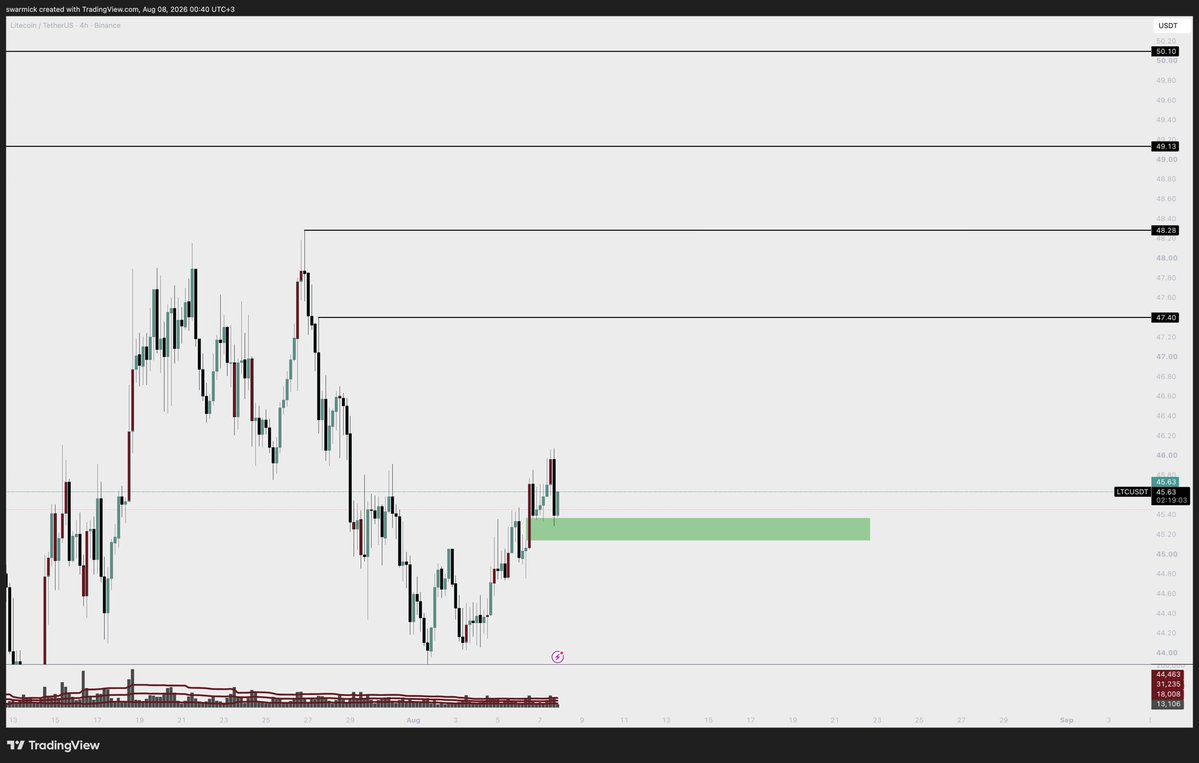
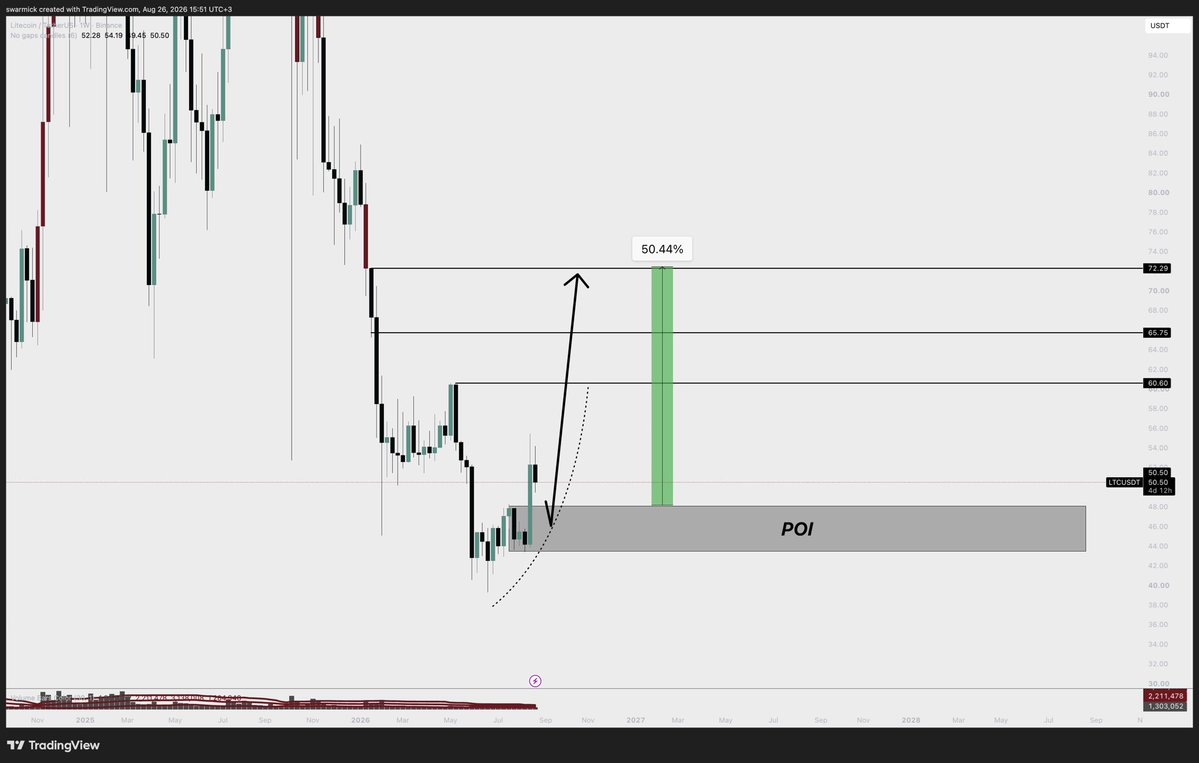
chore(x-trader-monitor): auto-commit 2026-08-26

diff --git a/memory/topics/ticker-focus.md b/memory/topics/ticker-focus.md
@@ -89,7 +89,7 @@
 - **$STRC (Strategy Inc)**: Wild_Randomness — **TECHNICAL PRICE-ACTION COMMENTARY** (2026-08-14T18:39:19Z). X post: "$STRC rebounding but slowing down? $80 buyers not sticking around for the last $5?" + 2 chart images (daily: V-shaped crash 100→72, recovery bounce to 96, now consolidating/weakening at 94.87 with volume profile analysis; weekly: multiple consolidation zones, small price moves on varying volume). Observation questioning momentum exhaustion on recovery bounce; skeptical on whether weak-handed buyers at $80 (recovery entry) will hold through next $5 resistance move. Classified as INFORMATIONAL (technical/price-action commentary, no personal trade execution; no "I bought/shorted/closed" language; observational analysis of price dynamics). First-mention new ticker across all tracked traders (Aug 14 18:39Z); single-trader technical observation on token/stock structure. Not on Kyle's explicit watch list; no cross-trader momentum yet. Classification: QUIET TICKER (single-mention, informational observation, no personal position). Tracked silently per Step 6 protocol. Watch for: (a) second trader mention of $STRC or similar recovery-fade thesis within short window (would escalate cross-trader momentum), or (b) Wild_Randomness follow-up execution/conviction signal (would escalate to trade-signal status). Updated 2026-08-14 18:39:19 UTC (first mention, technical observation).
 
 - **$LLY** (Eli Lilly): **Wild_Randomness (Aug 19 13:41:55Z)** — victory lap on past +$100 profit trade over 2-day window. 1D daily chart shows LLY at $1,270.50 (+3.65% intraday), bullish structure recovery from prior consolidation. Charts show strong uptrend structure recovery. Single-trader mention; past victory lap (no current execution signal). Classification: INFORMATIONAL (past trade outcome commentary). Quiet ticker single-mention tracking initiated pending cross-trader convergence or future mention. Kyle watch list: not explicitly included (focus: $HYPE/$NVDA/$Gold). Updated 2026-08-19T13:41:55Z (first mention).
-- **$LTC** (Litecoin): **swarmister — TRADE-NEW-ENTRY (2026-08-07T21:42:32Z)**. X post with TradingView LTC/USDT daily chart: "Opened a small long position $LTC with a tight stop-loss. The asset is showing relative strength compared to other instruments. Following a sell-side liquidity sweep, a reversal is expected to form, and the upward trend driven by institutional order flow is expected to continue." Chart shows: (a) clear sell-side liquidity sweep to ~43.50 low (capitulation zone), (b) reversal formation at ~45.63 current level, (c) resistance structure at 47.40/48.28/49.13 zones, (d) support consolidation at 43.50 (sweep low). Entry context: market-order long filled at ~$45.63 with tight stop-loss (implied ~43.50 or lower). Technical thesis: institutional order-flow continuation expected post-reversal. Classification: **TRADE-NEW-ENTRY (Step 5a)** — personal execution language ("Opened") confirms market-order filled position awaiting Kyle approval to mirror on Kraken spot. First-mention new ticker across all tracked traders (Aug 07 21:42Z, swarmister only). LTC previously unmentioned in tracked window. Chart-driven technical entry with disciplined risk management (tight SL). Single-trader mention; tracked for cross-trader convergence momentum (watch if second trader mentions LTC technical structure or relative-strength thesis within short window). Awaiting Kyle approval decision. Updated 2026-08-07T21:42:32 UTC (trade-new-entry, chart-validated reversal setup).
+- **$LTC** (Litecoin): **ESCALATED — 2-MENTION SINGLE-TRADER BULLISH CONVICTION**. **swarmister — TRADE-NEW-ENTRY (2026-08-07T21:42:32Z)**: X post with TradingView LTC/USDT daily chart: "Opened a small long position $LTC with a tight stop-loss. The asset is showing relative strength compared to other instruments. Following a sell-side liquidity sweep, a reversal is expected to form, and the upward trend driven by institutional order flow is expected to continue." Chart shows: (a) clear sell-side liquidity sweep to ~43.50 low (capitulation zone), (b) reversal formation at ~45.63 current level, (c) resistance structure at 47.40/48.28/49.13 zones, (d) support consolidation at 43.50 (sweep low). Entry context: market-order long filled at ~$45.63 with tight stop-loss (implied ~43.50 or lower). Technical thesis: institutional order-flow continuation expected post-reversal. Classification: **TRADE-NEW-ENTRY (Step 5a)** — personal execution language ("Opened") confirms market-order filled position awaiting Kyle approval to mirror on Kraken spot. **ESCALATION (2026-08-26T12:52:19Z)**: swarmister **SECOND MENTION** — enhanced technical conviction update with 1W (weekly) timeframe chart analysis demonstrating classic "W" (double-bottom) reversal pattern with Point of Interest (POI) support zone at ~$45.65 (consistent with prior Aug 07 reversal thesis). Upside potential ~50% targeting $72.22 level. Order Flow structure analysis confirms "upward Order Flow will continue to develop" from POI support zone. Technical depth escalation: daily entry (Aug 07, ~$45.63) → weekly structure confirmation (Aug 26, same POI zone $45.65) validates medium-term bullish thesis across dual timeframes. No new personal execution language (informational technical confirmation, not new trade action). Conviction escalation: trader reinforcing bullish thesis via multi-timeframe technical chart sharing. **Classification: INFORMATIONAL-BULLISH-ESCALATION (two-mention single-trader momentum on same bullish thesis)**. **Group lean: SINGLE-TRADER BULLISH** (swarmister long conviction, awaiting Kyle approval decision on original Aug 07 entry). Not on Kyle's explicit watch list ($HYPE/$NVDA/$Gold); tracked as quiet ticker with emerging single-trader conviction escalation. Informational alert sent to Kyle with weekly chart technical analysis. Watch for: (a) second independent trader mention of LTC technical structure (would escalate to cross-trader convergence status), or (b) Kyle approval decision on Aug 07 entry (would confirm positioned long). Updated 2026-08-26T12:52:19Z (second mention, weekly structure confirmation, technical conviction escalation).
 - **$NQ / NQ1** (NASDAQ 100 E-mini futures): Wild_Randomness — technical market structure observation (2026-08-03T23:50:42Z). X post with daily chart: NQ resistance 30,553.75 breakdown into consolidation support 28,938; cryptic sentiment "Might work out for everyone this time around, certainly at least for a few more days…but did not work out the last time" = cautious relief outlook with historical skepticism. Chart-driven technical observation on index-level volatility/consolidation pattern consistent with macro bear framework ("Jump the Shark" thesis). No personal trade execution language (informational market structure commentary). First-mention new ticker across tracked traders (Aug 03 23:50Z); single-trader index-level observation; not on Kyle's explicit watch list; not cross-trader convergence yet. Classification: QUIET TICKER (single-mention, informational technical observation, no personal position). Tracked silently per Step 6 protocol. Watch for: (a) second trader mention of NQ/NDX/tech-index technical structure within short window (would escalate cross-trader momentum), or (b) Wild_Randomness follow-up execution signal (would escalate to trade-signal status). Updated 2026-08-03 23:50:42 UTC.
 
 - **$AST (AST SpaceMobile)**: **HeartCanHodl — EMERGING CATALYST SENTIMENT** (2026-08-04T08:48Z). HCH expresses conviction on "timing on both" (SPCX + AST); LinkedIn context shows AST/Meta partnership on WhatsApp satellite connectivity integration (D2D + voice/video/messaging + AI experiences over satellite). Framed as emerging tech narrative: satellite communications convergence with terrestrial mobile networks. First mention from tracked traders; HCH noting timing/catalyst on infrastructure play. Classification: INFORMATIONAL (sentiment/conviction expression on emerging catalyst, not personal trade execution; no size/entry specified). Single-trader mention, tracked for cross-trader convergence momentum. Context: may represent HCH's entry on AST (implied from "timing on both" dual-asset reference, but no explicit position documented). Tracked silently pending confirmation of personal position or second trader mention. Updated 2026-08-04 08:48:35 UTC (first mention, emerging catalyst alert).

diff --git a/memory/logs/2026-08-26.md b/memory/logs/2026-08-26.md
@@ -370,3 +370,11 @@
 - **ticker(s):** [NFT/alphacentaurikid]
 - **alerted:** no (quiet ticker single-mention — logged silently per Step 6 protocol)
 - **notes:** Alphacentaurikid NFT collection drop opportunity. Full post: "i think the alphacentaurikid drop is a really great opportunity if you think nfts can come back this cycle. its a 10k pfp collection from one of the biggest artists in the space. all the OGs absolutely love him\n\ngood opportunity to get ur hands on some quality jpegs". Language analysis: "i think...is a really great opportunity" + "good opportunity to get ur hands on" = opinion/suggestion sharing, NOT first-person execution language ("I bought", "I placed order", "just entered"). Classification: informational/opinion (Step 6), not personal trade action (Step 5). Media: empty array (no images). Ticker focus: alphacentaurikid is quiet ticker (single mention by bull_genius only, not on Kyle's explicit watch list [$HYPE/$NVDA/$Gold]). NFT collection drops are out-of-scope for traditional crypto trading framework (not spot/perps/leverage). Per Step 6 protocol: "Quiet tickers mentioned by only one trader still get logged to `ticker-focus.md` silently — only surface them to Kyle if they start gaining cross-trader momentum". Decision: Log to traders.md silently (informational label), NO alert to Kyle. Event recorded in x-trader-seen.txt (ID: 2092595922328809488) to prevent reprocessing. Updated traders.md under bull_genius's rolling events. URL: https://x.com/bull_genius/status/2092595922328809488
+### x-trader-monitor (real-time event — 12:52Z — CURRENT)
+- **trader:** @swarmixter
+- **tweet_id:** 2092596001018138973
+- **timestamp:** 2026-08-26T12:52:19Z
+- **classification:** informational
+- **ticker(s):** [LTC]
+- **alerted:** yes (escalation of single-trader conviction)
+- **notes:** $LTC 1W technical analysis on classic "W" (double-bottom) reversal pattern. Full text: "$LTC 1W. Upside potential: ~49%.\n\nThe trend reversed direction following the formation and subsequent confirmation of a classic "W" reversal pattern.\n\nThe marked zone of interest, consisting of the MB and OB, is highly likely to act as a strong support zone from which the upward Order Flow will continue to develop." Language analysis: NOT first-person execution ("I opened a long" / "placed limit"). Classification: INFORMATIONAL (Step 6) — technical setup sharing / trade idea. Media: 1 chart fetched; shows LTC/USDT 1W timeframe with (a) classic W-reversal pattern confirmed, (b) POI (Point of Interest) support zone labeled at ~$45.65, (c) green shaded area showing 50.44% upside target to $72.22, (d) key price levels marked: $72.22 (top), $68.80, $60.80, $45.65 (bottom of POI). Technical context: chart validates trader's thesis on reversal formation + Order Flow structure + support consolidation. **ESCALATION NOTE**: swarmixter (spelling variant of swarmister) previously entered LTC long Aug 07 21:42Z at ~$45.63 with tight stop-loss (awaiting Kyle approval to mirror on Kraken). This Aug 26 12:52Z post is **SECOND MENTION** of same ticker with reinforced bullish thesis across dual timeframes (daily entry level Aug 07 ~$45.63 = weekly POI support zone $45.65 = confirmation of multi-timeframe technical alignment). Conviction escalation: trader sharing weekly structure validation of prior daily entry thesis. Per protocol: two-mention single-trader momentum gets alert escalation (quiet ticker threshold breached). Alert sent to Kyle via ./notify with full weekly chart context + link to original tweet. Updated traders.md rolling events (added 12:52Z entry + updated Last Seen timestamp). Updated ticker-focus.md to escalate $LTC from "awaiting approval" to "escalated two-mention conviction" status with weekly structure confirmation note. Event recorded in x-trader-seen.txt (ID: 2092596001018138973) to prevent reprocessing. URL: https://x.com/swarmixter/status/2092596001018138973

diff --git a/memory/topics/traders.md b/memory/topics/traders.md
@@ -287,8 +287,9 @@
 - Recent thesis: Contrarian BTC short vs group bullish lean. Bullish semis vs bearish BTC. Added BNB/SHIB longs based on liquidity-filtered selection from Saturday's long squeeze. Risk-managed via position sizing + disciplined profit-taking. Portfolio overall profitable.
 - Conviction notes: DIVERGES from KillaXBT/HCH/t_in_crypto/bull_genius bullish BTC thesis. Medium conviction BTC; high conviction semis/tech. **CRITICAL ESCALATION resolved**: 17+ cryptic-reply bare-post alerts Aug 21-24 resolved by substantive trade action Aug 25 07:47Z (BNB/SHIB TP), indicating pattern may have been manic trading energy rather than signal-trading. Profile continues unclear but recent action shows disciplined risk management (SL at BE, 50% TP). Pattern continues but less escalating post-Aug-25 execution.
 - Calibration: PENDING Aug 26 07:11Z (cryptic "@BittexXBT Calling top" — single phrase "Calling top" with no execution language or context anchor; unable to determine if sarcasm on underwater -179% BTC short, actual bearish BTC sentiment, agreement with @BittexXBT, or market observation; awaiting Kyle clarification). PENDING Aug 26 07:03Z (cryptic "@0xShanu 1) what" — bare reply to another trader, extremely vague, unable to determine intent without original message; awaiting Kyle clarification). PENDING Aug 25 17:35Z (cryptic "@flexing_red @Ehn_7H 100-300k is ok" — no asset, no context, appears reply to unknown original message; could be BTC/ETH/SOL price target, position sizing, or agreement with another trader; awaiting Kyle clarification). PENDING Aug 25 10:39Z (cryptic "I meant this (read)" + 4 images: Discord chat re: new $10K trading account/Vhagar initiative, @puterWorld 5-year loss narrative, -$18K account loss chart Jun 25, 2026). Intent unclear — self-aware BTC short commentary, cautionary tale for new group initiative, or risk-management reminder? Connection to Kyle decision unknown; awaiting calibration response.).
-- Last seen: 2026-08-26T12:45:48Z
+- Last seen: 2026-08-26T12:52:19Z
 - **Events (rolling):**
+  - Aug 26 12:52Z — informational: $LTC 1W W-reversal pattern with POI support zone; ~49% upside target $72.22; classic reversal formation confirmation; Order Flow structure analysis; technical setup sharing (not personal execution) [$LTC] [2092596001018138973]
   - Aug 26 12:45Z — informational: $BCH 1H reversal pattern setup; "shift in narrative toward uptrend"; local relative strength + POI formation; "provides grounds for considering a long position from current levels"; technical trade idea (not personal execution); charts show 1h consolidation with support/resistance levels [$BCH] [2092594358553825712]
   - Aug 26 07:20Z — skip: greeting "@loli_roller Hai" [$NONE] [2092512407323124184]
   - Aug 26 07:11Z — ambiguous: "@BittexXBT Calling top" — cryptic single phrase with no context anchor or execution language; unable to determine intent (sarcasm on -179% BTC short, bearish sentiment, agreement w/ @BittexXBT, or market observation); HR-2 calibration sent to Kyle [$BTC-IMPLIED] [2092510158240776551]

diff --git a/.outputs/x-trader-monitor.md b/.outputs/x-trader-monitor.md
@@ -14,3 +14,12 @@ Successfully executed the **x-trader-monitor** skill for the provided event from
 - ✅ Updated `memory/logs/2026-08-26.md` — Appended detailed log entry
 
 **Rationale:** The trader is sharing an NFT opportunity opinion with no first-person execution language ("I bought", "placed order"). Since alphacentaurikid is a quiet ticker with only one mention and NFT collections fall outside Kyle's core watch list ($HYPE, $NVDA, $Gold, BTC, ETH), this event is logged to memory silently per Step 6 protocol — only surfaced to Kyle if cross-trader momentum develops.
+🐦 *[X] @swarmixter*
+
+$LTC 1W — Reversal Setup
+
+Classic W-reversal pattern formation confirmed. Point of Interest (POI) zone at $45.65 likely acts as strong support from which upward Order Flow expected to continue.
+
+**Upside potential: ~49%** (targeting $72.22)
+
+[View tweet](https://x.com/swarmixter/status/2092596001018138973)
